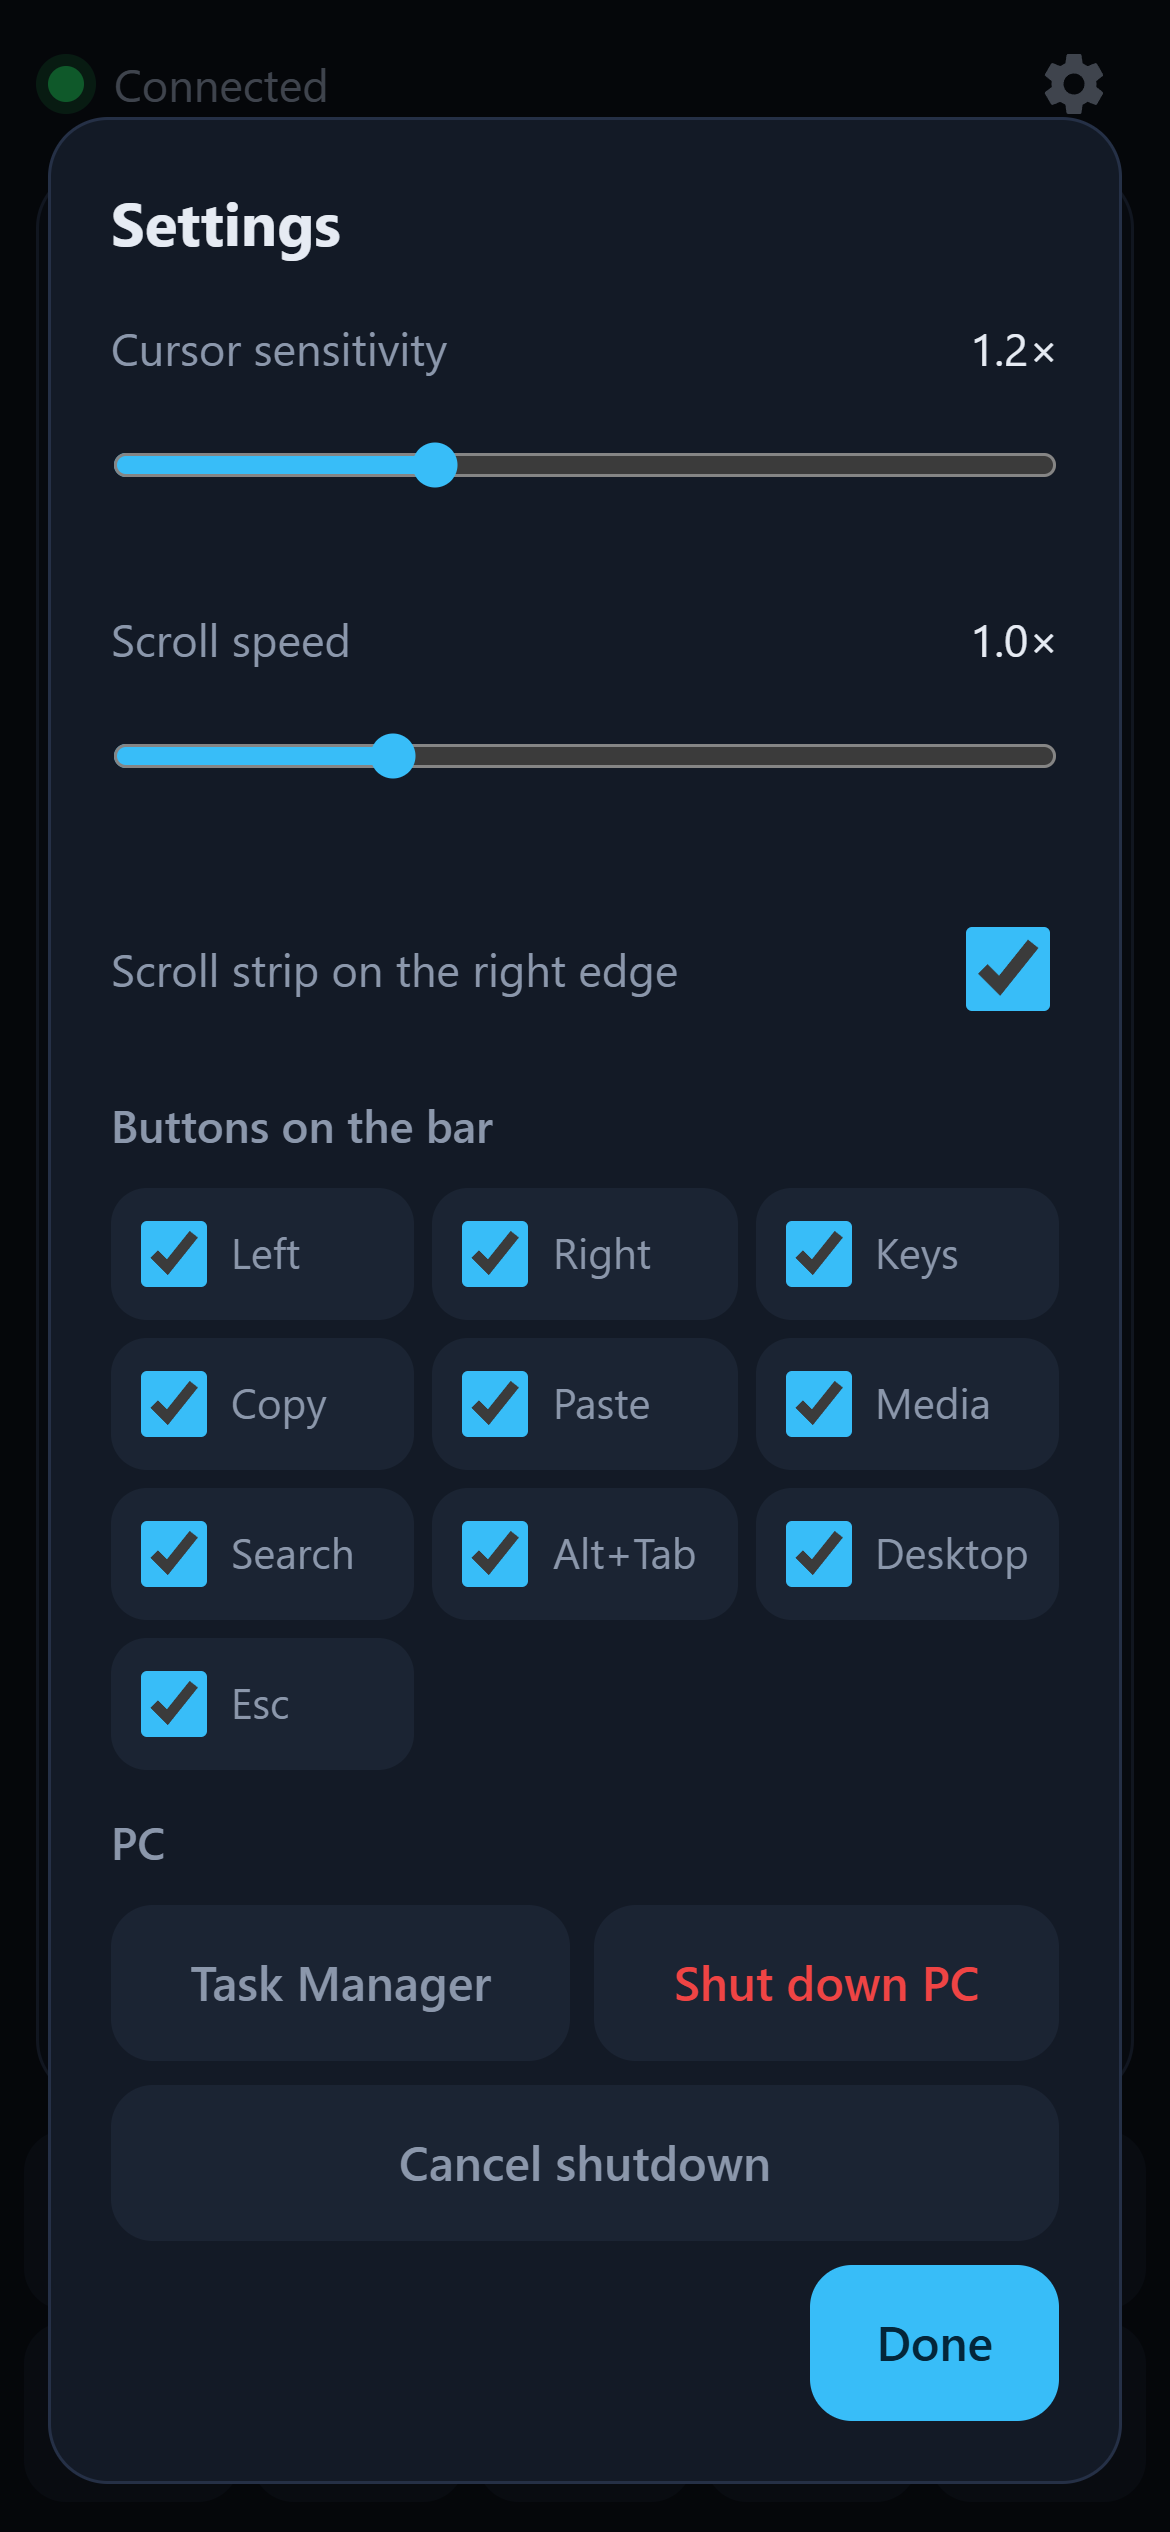
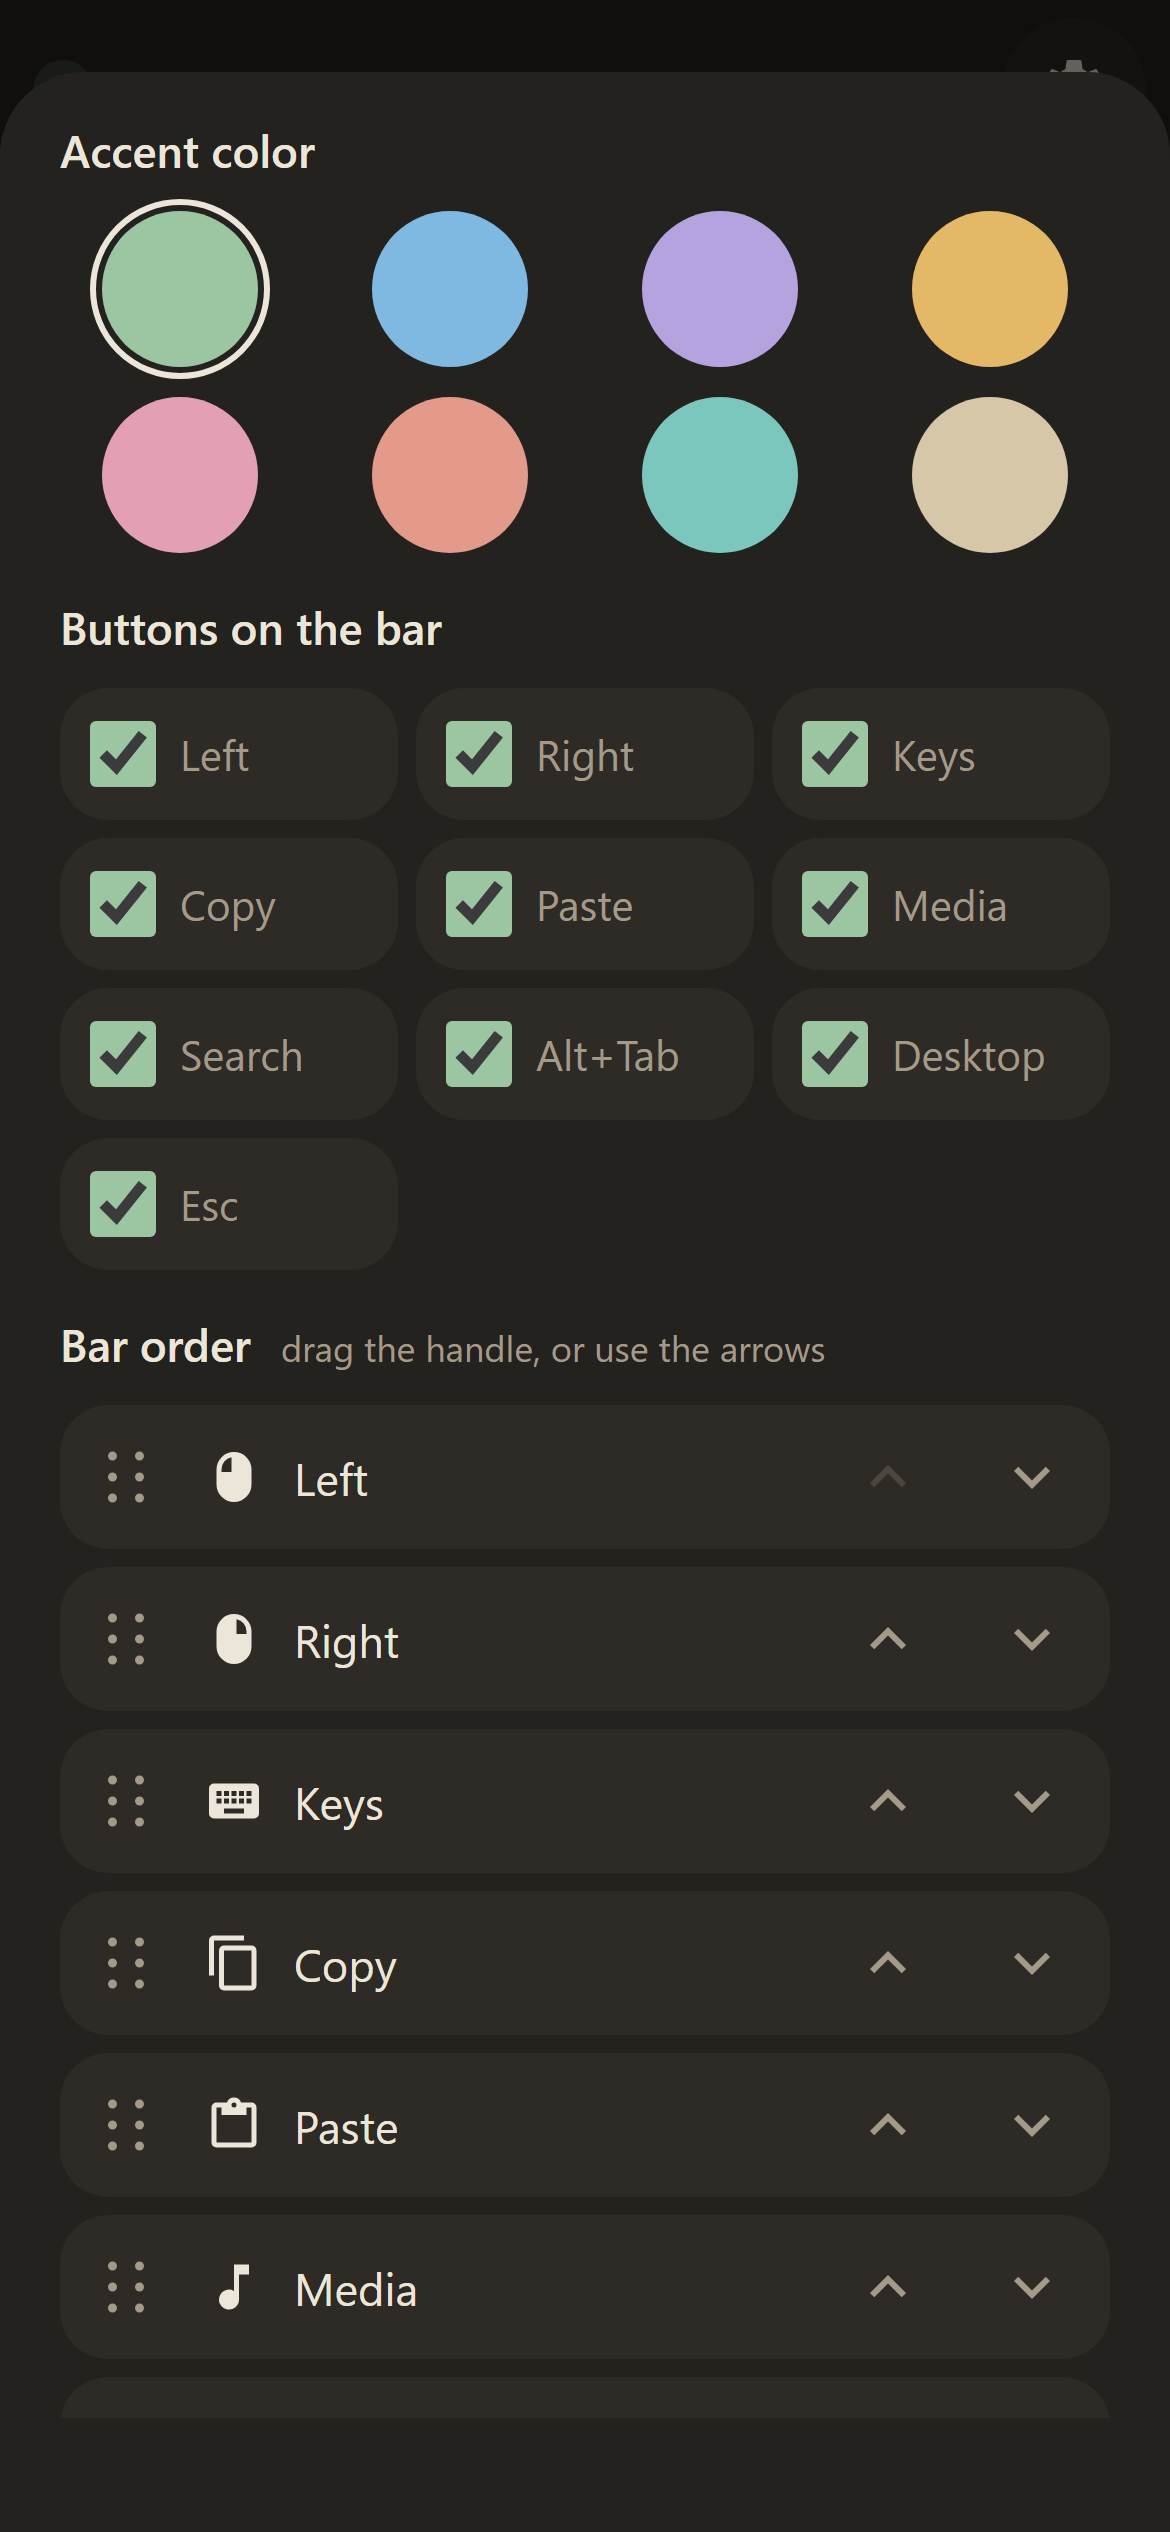
Version 1.3.0
- Revamped design: warm, low-glare dark theme with larger, rounder controls
- Accent color: choose one of 8 colors in Settings
- Bar order: drag buttons (or use the arrows) to reorder the bottom bar
- Bar alignment: Left, Center, Right or Spread
- Reset bar restores the default buttons, order and alignment
- New README screenshots

diff --git a/server/__init__.py b/server/__init__.py
@@ -1,3 +1,3 @@
 """PhoneMouse PC server."""
 
-__version__ = "1.2.2"
+__version__ = "1.3.0"

diff --git a/README.md b/README.md
@@ -7,7 +7,7 @@ Use your iPhone or iPad as a trackpad and keyboard for your Windows PC over your
   &nbsp;
   <img src="docs/screenshot-media.png" width="230" alt="PhoneMouse with the Media panel open: volume down, mute, volume up, previous, play/pause, next">
   &nbsp;
-  <img src="docs/screenshot-settings.png" width="230" alt="PhoneMouse settings: sensitivity, scroll speed, scroll strip, bar buttons and PC actions">
+  <img src="docs/screenshot-settings.png" width="230" alt="PhoneMouse settings: accent color, bar buttons and bar order">
 </p>
 
 In this guide, "phone" means your iPhone or iPad: both work the same way.
@@ -52,7 +52,7 @@ On the first run it creates a `.venv` folder and installs the packages from `req
 
 ```
 ==============================================
-  PhoneMouse 1.2.2 is running
+  PhoneMouse 1.3.0 is running
   Open on iPhone/iPad:  http://phonemouse.local
   Or:                   http://192.168.1.23
   PIN:                  482915
@@ -120,9 +120,9 @@ You only type the PIN once per server start. After that the phone stays logged i
 | Two-finger drag | Scroll (natural direction, both axes) |
 | Hold for about 0.4 s, then drag | Click-drag: select text, move windows. "Dragging" shows while it's active; lift your finger to release. |
 
-Bottom bar buttons: **Left**, **Right**, **Keys** (opens the on-screen keyboard; tap again to close), **Copy** (Ctrl+C), **Paste** (Ctrl+V), **Media** (opens volume −, mute, volume +, previous, play/pause and next; tap Media again or anywhere else to close), **Search** (Win+S), **Alt+Tab**, **Desktop** (Win+D), **Esc**. Under **Buttons on the bar** in settings, untick the ones you don't need; up to 7 fit in one row, more wrap into two.
+Bottom bar buttons: **Left**, **Right**, **Keys** (opens the on-screen keyboard; tap again to close), **Copy** (Ctrl+C), **Paste** (Ctrl+V), **Media** (opens volume −, mute, volume +, previous, play/pause and next; tap Media again or anywhere else to close), **Search** (Win+S), **Alt+Tab**, **Desktop** (Win+D), **Esc**. Under **Buttons on the bar** in settings, untick the ones you don't need; up to 7 fit in one row, more wrap into two. Under **Bar order**, drag a button by its handle (or use the arrows) to move it, and under **Bar alignment** choose **Left**, **Center**, **Right** or **Spread** (the default). **Reset bar** brings back all buttons in the original order.
 
-The gear icon opens settings for **cursor sensitivity**, **scroll speed**, the **scroll strip** and the **bar buttons**. These are saved on the phone. With the scroll strip turned on, a narrow bar appears to the right of the trackpad: drag one finger up or down on it to scroll.
+The gear icon opens settings for **cursor sensitivity**, **scroll speed**, the **scroll strip**, the **accent color** and the **bar buttons**. These are saved on the phone. With the scroll strip turned on, a narrow bar appears to the right of the trackpad: drag one finger up or down on it to scroll.
 
 The settings also have **PC** buttons:
 - **Task Manager** opens Task Manager. PhoneMouse must run as administrator: it then starts Task Manager itself, with admin rights, so Windows doesn't ask for your PIN or password. (Ctrl+Shift+Esc would let Windows start it, and if you set User Account Control to ask for a PIN, that prompt can only be answered on the PC.)
